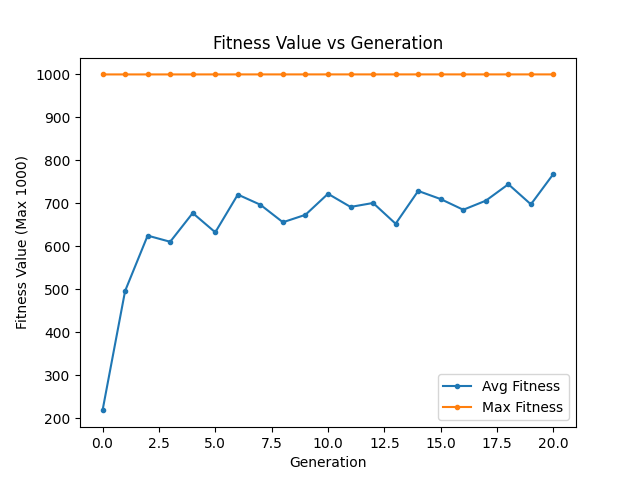
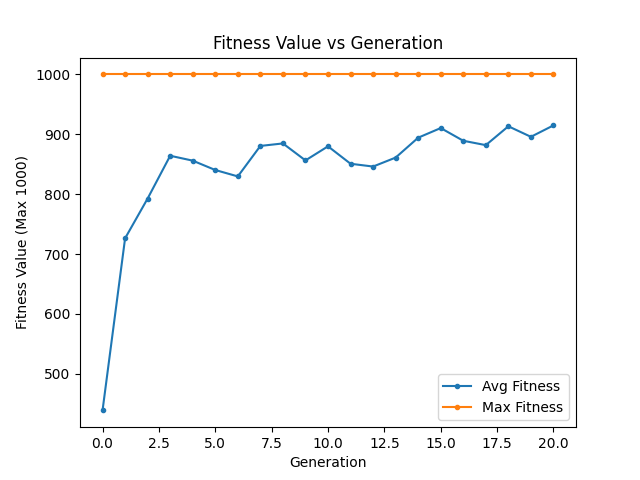
Tried regression of Cd with constants as terminals

diff --git a/GEP.py b/GEP.py
@@ -9,7 +9,7 @@ from sklearn.metrics import r2_score
 
 class GeneExpressionProgramming():
 
-    def __init__(self, nhead, func_set, term_set, operator_probabilities):
+    def __init__(self, nhead, func_set, term_set, const_range, operator_probabilities):
 
         self.gen_pop_fit_history = {}
         self.ngenerations = None
@@ -29,6 +29,9 @@ class GeneExpressionProgramming():
 
         self.ntail = self.nhead * (self.max_arity - 1) + 1
         self.chrom_length = self.nhead + self.ntail
+
+        self.dc_length = self.ntail
+        self.const_list = np.random.uniform(const_range[0],const_range[1],self.dc_length)
 
         self.operator_probabilities = operator_probabilities
 
@@ -105,10 +108,16 @@ class GeneExpressionProgramming():
             expr_tree = ChromToET(chromosome)
             for i in range(len(expr_tree)): #iterate rows
                 el = 0
+                el_dc = 0
                 for element in expr_tree[i]: #iterate elements in a row
                     if element in variable_dict.keys():
                         expr_tree[i][el] = str(variable_dict[element])
+                    elif element == '?':
+                        expr_tree[i][el] = str(self.const_list[el_dc])
+                        el_dc += 1
+
                     el += 1
+
 
             def operate_two_arity(representation, a, b):
                 a = float(a)
@@ -199,8 +208,9 @@ class GeneExpressionProgramming():
                     variable_dict = {}
                     nth_input = 0
                     for term in self.term_set:
-                        variable_dict[term] = pd.DataFrame(x).iloc[i, nth_input]
-                        nth_input += 1
+                        if term != '?':
+                            variable_dict[term] = pd.DataFrame(x).iloc[i, nth_input]
+                            nth_input += 1
 
                     prediction = EvaluateET(chromosome, variable_dict)
                     # print(prediction)
@@ -249,7 +259,9 @@ class GeneExpressionProgramming():
                     chromosome.append(random.choice(self.term_set))
 
                 # concatenate head+tail
-                #chromosome = list(head + tail)
+                #chromosome = list(head +
+                for i in range(self.dc_length):
+                    chromosome.append(str(random.randint(0,self.dc_length-1)))
 
                 # add to population
                 population.append(chromosome.copy())
@@ -281,6 +293,8 @@ class GeneExpressionProgramming():
                     elif index >= self.nhead:  # if randomizer picks to mutate tail region
                         chromosome[index] = random.choice(self.term_set)
 
+                    index_dc = -random.randint(1, self.dc_length)
+                    chromosome[index_dc] = str(random.randint(0,self.dc_length-1))
                 new_population.append(chromosome.copy())
 
             return new_population
@@ -510,6 +524,7 @@ Generations:{ngenerations}
 Function set: {self.func_set}
 Terminal set: {self.term_set}
 Chromosome length: {self.chrom_length}
+Constant list: {self.const_list}
 =========================================================
         ''')
 

diff --git a/prediction_vs_truth.py b/prediction_vs_truth.py
@@ -40,7 +40,7 @@ def ChromToET(chromosome):
     return expr_tree
 
 
-def EvaluateET(chromosome, variable_dict):
+def EvaluateET(chromosome, variable_dict, const_list):
     '''Take chromosome and terminal variable dictionary{'symbol':value}
     and perform calculation from the chromosome->ET->calculation->prediction'''
 
@@ -48,10 +48,14 @@ def EvaluateET(chromosome, variable_dict):
     expr_tree = ChromToET(chromosome)
     for i in range(len(expr_tree)):  # iterate rows
         el = 0
+        el_dc = 0
         for element in expr_tree[i]:  # iterate elements in a row
             if element in variable_dict.keys():
                 expr_tree[i][el] = str(variable_dict[element])
+            elif element =='?':
+                expr_tree[i][el] = str(const_list[el_dc])
             el += 1
+
 
     def operate_two_arity(representation, a, b):
         a = float(a)
@@ -134,10 +138,9 @@ y_true = df['Cd']
 x = df['AoA']
 
 # declare the chromosome and the variable dictionary
-chromosome = ['(X2)', '(X2)', '(X2)', '/', 'a', '+', '(sqrt)', 'a', 'a', 'a', 'a', 'a', 'a', 'a', 'a']
+chromosome = ['/', '(X2)', '/', 'a', '(exp)', '*', 'a', 'a', '?', '?', 'a', 'a', '?', '?', 'a', '6', '0', '4', '6', '3', '2', '3', '2']
 term_set = ['a']
-
-
+const_list = [0.01100726, 0.01682561, 0.01555461, 0.01705792, 0.00568456, 0.01645038,0.0129643,  0.01609162]
 
 y_true = df['Cd']
 
@@ -149,7 +152,7 @@ for i in range(len(pd.DataFrame(x))):
     for term in term_set:
         variable_dict[term] = pd.DataFrame(x).iloc[i, nth_input]
         nth_input += 1
-    prediction = EvaluateET(chromosome, variable_dict)
+    prediction = EvaluateET(chromosome, variable_dict, const_list)
     y_pred.append(prediction)
 
 y_pred = np.array(y_pred)

diff --git a/implementation_test.py b/implementation_test.py
@@ -24,7 +24,8 @@ class MinMaxScaler:
 
 func_set = ['+','-','*','/', '(sqrt)','(exp)','(X2)']
 
-term_set = ['a']
+term_set = ['a', '?']
+const_range = [0.001,0.02]
 operator_probabilities = {
     "Mutation":0.2, "Inversion":0.1, "IS Transposition":0.1,
     "RIS Transposition":0.1, "One-point Recombination":0.3,
@@ -36,6 +37,6 @@ population_size = 300
 generations = 20
 fitness_func = 'mse'
 
-GEPProcess = GeneExpressionProgramming(head_length,func_set,term_set,operator_probabilities)
+GEPProcess = GeneExpressionProgramming(head_length,func_set,term_set,const_range,operator_probabilities)
 GEPProcess.RunGEP(df['AoA'],df['Cd'],population_size,generations,fitness_func)
 GEPProcess.VisualizeResults()
